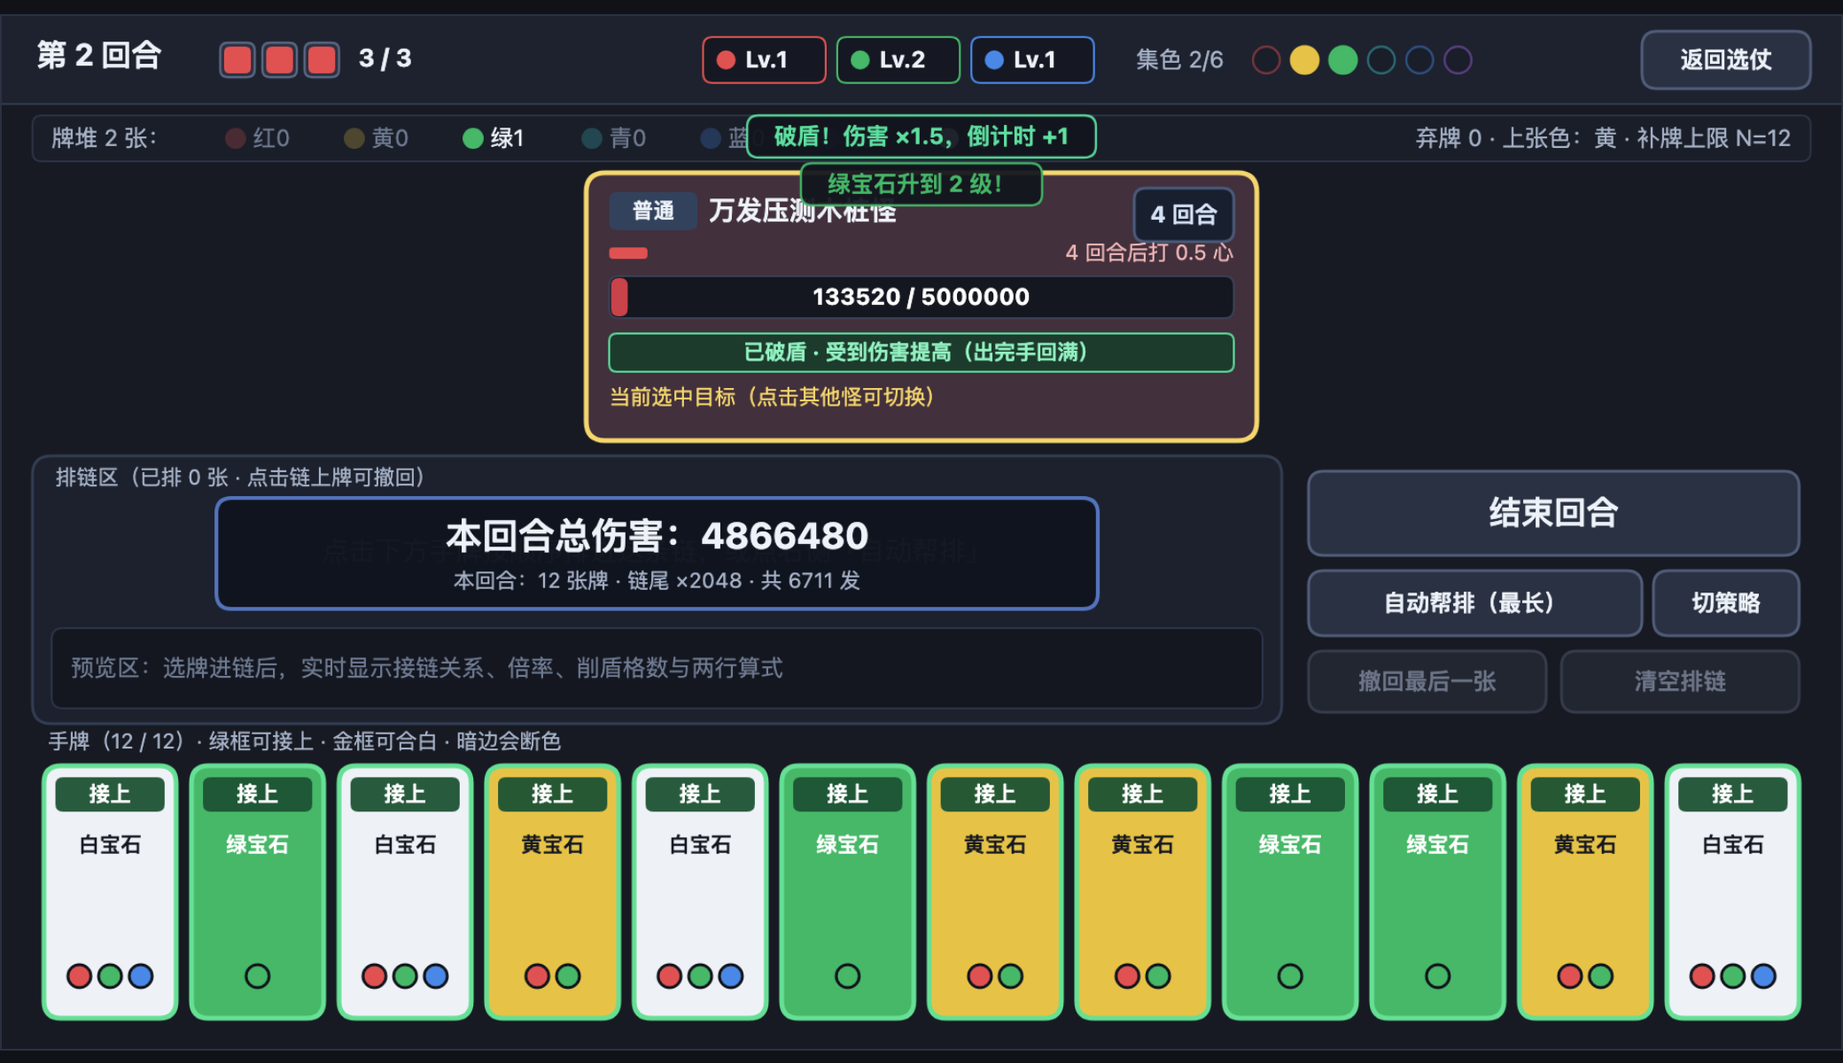
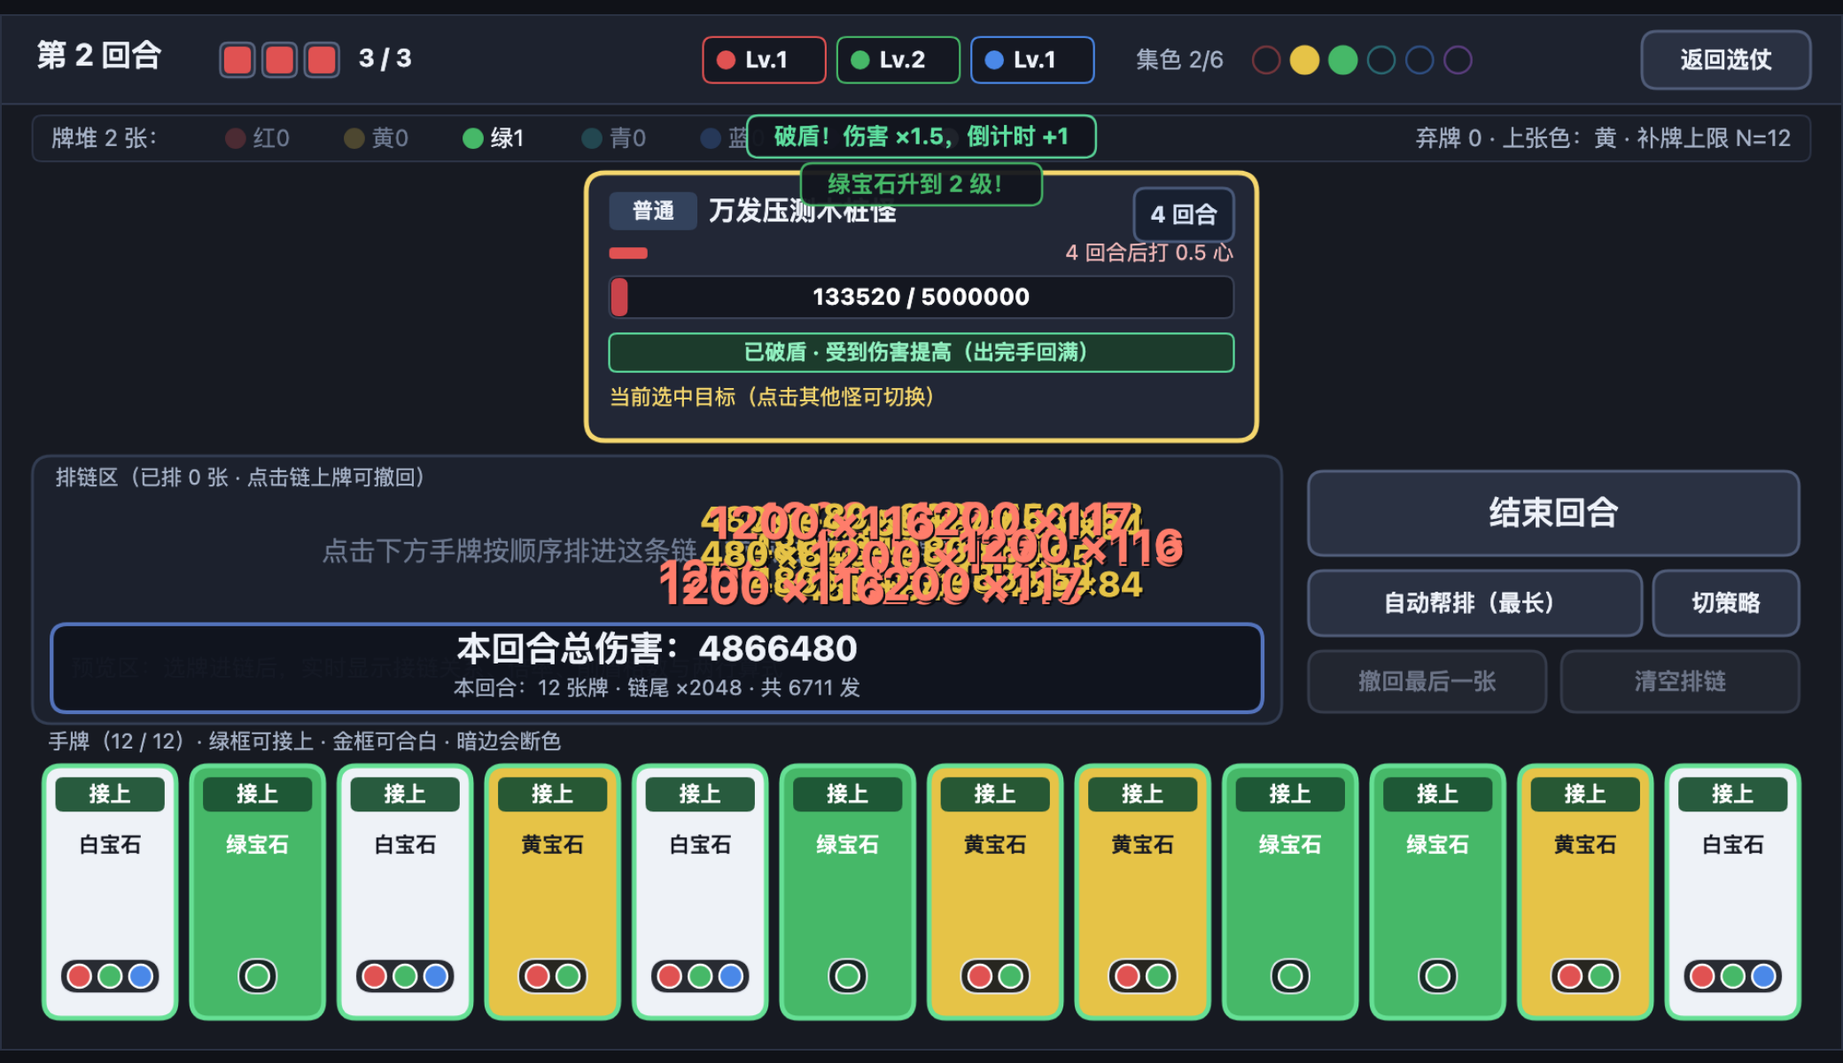
[claude] 第一步修小毛病：飘字不压怪的信息、宝石点加底托、牌名不写换行符

diff --git a/原型/neon/modules/battle-view/view.js b/原型/neon/modules/battle-view/view.js
@@ -39,14 +39,27 @@ function isLightSwatch(colorId) {
 function drawGemDots(renderer, centerX, y, gems, radius = 5, gap = 14) {
   if (!Array.isArray(gems) || gems.length === 0) return;
   const startX = centerX - ((gems.length - 1) * gap) / 2;
+  // 深色底托：不管牌面是什么颜色（包括蓝点画在蓝牌上），宝石点都落在同一块深色底上
+  const padX = radius + 4;
+  renderer.rect({
+    x: startX - padX,
+    y: y - radius - 3,
+    w: (gems.length - 1) * gap + padX * 2,
+    h: radius * 2 + 6,
+    fill: '#12151c',
+    stroke: '#eef2f9',
+    lineWidth: 1,
+    radius: radius + 3,
+    alpha: 0.9,
+  });
   gems.forEach((g, idx) => {
     renderer.circle({
       x: startX + idx * gap,
       y,
       r: radius,
       fill: COLOR_META[g]?.swatch || '#ffffff',
-      stroke: '#12151c',
-      lineWidth: 1.5,
+      stroke: '#ffffff',
+      lineWidth: 1.2,
     });
   });
 }
@@ -110,6 +123,7 @@ export function createBattleView(options = {}) {
   let hoveredMonsterUid = null;
   let hoveredChainUid = null;
 
+  // 飘字的落点：怪卡片正下方那一条（排链面板的上半截），往上飘到卡片底边为止，不压怪的名字和信息
   function computeMonsterAnchors(snap) {
     const anchors = new Map();
     if (!snap || !Array.isArray(snap.monsters)) return anchors;
@@ -119,7 +133,7 @@ export function createBattleView(options = {}) {
     const totalW = count * cardW + (count - 1) * gap;
     const startX = (LOGICAL_W - totalW) / 2;
     snap.monsters.forEach((m, idx) => {
-      anchors.set(m.uid, { x: startX + idx * (cardW + gap) + cardW / 2, y: 148 });
+      anchors.set(m.uid, { x: startX + idx * (cardW + gap) + cardW / 2, y: 292, minY: 248 });
     });
     return anchors;
   }
@@ -996,10 +1010,10 @@ export function createBattleView(options = {}) {
       const sb = state.summaryBanner;
       const alpha = Math.max(0, Math.min(1, sb.life / 0.5));
       renderer.rect({
-        x: 112,
-        y: 252,
-        w: 460,
-        h: 58,
+        x: 26,
+        y: 318,
+        w: 632,
+        h: 46,
         fill: '#10141f',
         stroke: sb.rainbow ? '#ffd559' : '#5778c4',
         lineWidth: 2,
@@ -1010,8 +1024,8 @@ export function createBattleView(options = {}) {
         value: sb.totalDamage,
         prefix: '本回合总伤害：',
         x: 342,
-        y: 263,
-        size: 19,
+        y: 322,
+        size: 18,
         tone: sb.rainbow ? 'accent' : 'normal',
         align: 'center',
         alpha,
@@ -1020,7 +1034,7 @@ export function createBattleView(options = {}) {
         drawText(renderer, {
           text: sb.formulaLines[0],
           x: 342,
-          y: 290,
+          y: 346,
           size: 11,
           color: UI_THEME.textSecondary,
           align: 'center',
@@ -1128,9 +1142,10 @@ export function createBattleView(options = {}) {
     renderMonsters(renderer);
     renderChainAndPreview(renderer);
     renderHand(renderer);
+    ui.render(renderer);
     renderFx(renderer);
     renderOutcomeModal(renderer);
-    ui.render(renderer);
+    if (snapshot.outcome !== null) ui.render(renderer);
     renderHoverTooltip(renderer);
   }
 

diff --git a/原型/neon/tools/shot.js b/原型/neon/tools/shot.js
@@ -55,8 +55,9 @@ const DEFAULT_JOBS = [
     full: false,
     clicks: [
       { x: 750, y: 306 }, // 点「自动帮排」
-      { x: 780, y: 260 }, // 点「打出」看飘字与总伤面板
+      { x: 780, y: 260, frames: 1, waitMs: 650 }, // 点「打出」看飘字与总伤面板
     ],
+    freeze: true,
   },
   {
     name: '实战·看门的 3 条血',
@@ -75,8 +76,9 @@ const DEFAULT_JOBS = [
     full: false,
     clicks: [
       { x: 750, y: 306 }, // 自动帮排 12 张
-      { x: 780, y: 260 }, // 打出上万发
+      { x: 780, y: 260, frames: 1, waitMs: 650 }, // 打出上万发
     ],
+    freeze: true,
   },
   {
     name: 'battle-view 假数据演示页',
@@ -285,7 +287,7 @@ async function waitFrames(cdp, count = 3) {
   });
 }
 
-async function clickLogicalCanvas(cdp, lx, ly) {
+async function clickLogicalCanvas(cdp, lx, ly, settleFrames = 6) {
   const evalRes = await cdp.send('Runtime.evaluate', {
     returnByValue: true,
     expression: `(() => {
@@ -306,7 +308,7 @@ async function clickLogicalCanvas(cdp, lx, ly) {
   await cdp.send('Input.dispatchMouseEvent', { type: 'mousePressed', x: pt.x, y: pt.y, button: 'left', clickCount: 1 });
   await cdp.send('Input.dispatchMouseEvent', { type: 'mouseReleased', x: pt.x, y: pt.y, button: 'left', clickCount: 1 });
   await cdp.send('Input.dispatchMouseEvent', { type: 'mouseMoved', x: 12, y: 12, button: 'none' });
-  await waitFrames(cdp, 6);
+  await waitFrames(cdp, settleFrames);
 }
 
 async function runJob(cdp, origin, job) {
@@ -336,8 +338,15 @@ async function runJob(cdp, origin, job) {
 
     if (Array.isArray(job.clicks)) {
       for (const pt of job.clicks) {
-        await clickLogicalCanvas(cdp, pt.x, pt.y);
+        await clickLogicalCanvas(cdp, pt.x, pt.y, pt.frames ?? 6);
+        if (pt.waitMs) {
+          await cdp.send('Runtime.evaluate', { awaitPromise: true, expression: `new Promise((r) => setTimeout(r, ${Number(pt.waitMs)}))` });
+        }
       }
+    }
+    if (job.freeze) {
+      // 停住主循环再截：飘字只活一秒多，截图本身就要几百毫秒
+      await cdp.send('Runtime.evaluate', { expression: 'window.__CODE00_APP__?.freeze?.()' });
     }
 
     let captureParams = { format: 'png' };

diff --git a/原型/neon/modules/ui/primitives.js b/原型/neon/modules/ui/primitives.js
@@ -32,6 +32,15 @@ export function formatNumber(value, { decimals = 0, prefix = '', suffix = '' } =
 const NO_LINE_START_PUNCT = new Set(['，', '。', '；', '：', '、', '！', '？', '）', '》', '」', '』', ',', '.', ';', ':', '!', '?', ')']);
 
 /**
+ * 断行用的小块：中文一个字一块；连着的字母、数字、符号（如「+50%」「×2」）算一块，不从中间断开。
+ * @param {string} para
+ * @returns {string[]}
+ */
+export function splitWrapTokens(para) {
+  return String(para).match(/[A-Za-z0-9+\-×%.,:/#]+|\s+|[\s\S]/gu) || [];
+}
+
+/**
  * 按最大像素宽度把字符串拆成多行（兼容中文无空格断行、显式换行符与基础避头标点）。
  * @param {object} renderer
  * @param {string} content
@@ -52,18 +61,18 @@ export function wrapText(renderer, content, maxWidth, style = {}) {
       continue;
     }
     let current = '';
-    for (const ch of para) {
-      const candidate = current + ch;
+    for (const token of splitWrapTokens(para)) {
+      const candidate = current + token;
       if (current.length > 0 && renderer.measureText(candidate, style).width > maxWidth) {
         // 避免常见中文标点落在行首
-        if (NO_LINE_START_PUNCT.has(ch) && current.length > 1) {
+        if (NO_LINE_START_PUNCT.has(token) && current.length > 1) {
           const chars = Array.from(current);
           const tail = chars.pop();
-          lines.push(chars.join(''));
-          current = tail + ch;
+          lines.push(chars.join('').trimEnd());
+          current = tail + token;
         } else {
-          lines.push(current);
-          current = ch;
+          lines.push(current.trimEnd());
+          current = token.trimStart();
         }
       } else {
         current = candidate;

diff --git a/原型/neon/modules/content/test/content.test.js b/原型/neon/modules/content/test/content.test.js
@@ -6,6 +6,7 @@ import {
   validateBattleStartPacket,
 } from '../../shared/index.js';
 import {
+  ALL_CARD_DEFS,
   ALL_ENCOUNTERS,
   DECK_LOADOUTS,
   FUNCTION_CARD_LIST,
@@ -40,5 +41,11 @@ test('阶段 1 核心 5 种仗与全部 7 种仗拼出的开战包全部通过 s
     });
     const res = validateBattleStartPacket(packet);
     assert.equal(res.ok, true, `${encounter.id} 开战包校验失败：\n${res.errors.join('\n')}`);
+  }
+});
+
+test('牌的名字里不写换行符：排版交给画面按宽度换行', () => {
+  for (const def of Object.values(ALL_CARD_DEFS)) {
+    assert.doesNotMatch(def.label, /\n/, `${def.defId} 的名字里有换行符`);
   }
 });

diff --git a/原型/neon/modules/battle-view/fx.js b/原型/neon/modules/battle-view/fx.js
@@ -76,6 +76,7 @@ export function createBattleFx() {
             color,
             size,
             isCrit: Boolean(p.isCrit),
+            minY: anchor.minY ?? -Infinity,
             delay: Math.min(0.45, packetIndex * 0.02),
             life: 1.15,
             maxLife: 1.15,
@@ -155,7 +156,7 @@ export function createBattleFx() {
         f.delay -= step;
         continue;
       }
-      f.y += f.vy * step;
+      f.y = Math.max(f.minY ?? -Infinity, f.y + f.vy * step);
       f.life -= step;
       if (f.life <= 0) floaters.splice(i, 1);
     }

diff --git a/原型/neon/modules/ui/test/ui.test.js b/原型/neon/modules/ui/test/ui.test.js
@@ -154,3 +154,10 @@ test('createUiLayer 正确处理按钮命中、悬停、按下、点击与禁用
   assert.equal(offRes.clickedId, null);
   assert.equal(disabledClicked, 0);
 });
+
+test('wrapText 不把「+50%」这类数字记号从中间断开', () => {
+  const { renderer } = makeRecordingRenderer();
+  const lines = wrapText(renderer, '本回合每发 +50%', 60, { size: 14 });
+  assert.ok(lines.length >= 2);
+  assert.ok(lines.some((l) => l.includes('+50%')), `断行结果：${JSON.stringify(lines)}`);
+});

diff --git a/原型/neon/modules/ui/index.js b/原型/neon/modules/ui/index.js
@@ -2,7 +2,7 @@
 // 其他模块和 app/ 只能导入这个文件。
 
 export { UI_THEME } from './theme.js';
-export { formatNumber, wrapText, drawText, drawNumber, drawPanel } from './primitives.js';
+export { formatNumber, wrapText, splitWrapTokens, drawText, drawNumber, drawPanel } from './primitives.js';
 export { hitTestRect, createButton, drawButton } from './button.js';
 export { layoutTooltip, drawTooltip } from './tooltip.js';
 export { createUiLayer } from './manager.js';

diff --git a/原型/neon/app/main.js b/原型/neon/app/main.js
@@ -85,4 +85,7 @@ window.__CODE00_APP__ = Object.freeze({
   getLogicalSize: () => renderer.getSize(),
   getBackend: () => RENDER_BACKEND,
   getLoopStats: () => loop.getStats(),
+  // 截图用：停住主循环，让飘字定在画面上（再调 unfreeze 接着走）
+  freeze: () => { loop.stop(); sceneManager.render(renderer); },
+  unfreeze: () => loop.start(),
 });

diff --git a/原型/neon/modules/content/cards/cards.js b/原型/neon/modules/content/cards/cards.js
@@ -65,7 +65,7 @@ export const FUNCTION_CARD_DEFS = Object.freeze({
     color: 'colorless',
     gems: Object.freeze([]),
     drawAfterPlay: 1,
-    label: '本回合\n每发 +50%',
+    label: '本回合每发 +50%',
     description: '马上用：这回合每发伤害 +50%，用完补摸 1 张',
     effects: Object.freeze([
       Object.freeze({

diff --git a/进度.md b/进度.md
@@ -3,27 +3,19 @@
 ## 现在
 （每次整段重写。换一个人只读这一段就能接着干。）
 
-**做到哪**：设计稿第 3 版整份用户点过头了。**原型：neon 做完了阶段 0 和阶段 1 前半段**（`原型/neon/`，提交 `7f93fa4`、`f274f4b`），用户检查后说「纯粹是逻辑，页面布局一点都没有」，决定**剩下的交给 claude 接着做**。
-- 写设计稿的 claude 检查了 neon 的东西：`原型/检查-neon-阶段0到1前半.md`。
-  - 能接着做：33 项单测全过，零依赖，解耦守卫、假玩家模拟、截图工具都有；规则抽查跟第 3 版一致。
-  - 要改：画面是调试面板，不像游戏；布局坐标散在 `view.js` 里写死；选仗台和开关当成了入口；飘字压字、蓝点看不见、名字里写换行符。
-  - 等用户打过再问：「按破盾排」跟「按最长的链排」几乎没差别，看门的掉心太少，都达不到 10.4 的合格线。
-- 接手提示词：`原型/提示词-接手neon.md`。用户开一个新窗口，**同时做布局和阶段 1 后半段**，都交给 claude，就在 `原型/neon/` 里接着做，提交写 `[claude]`：
-  - 修小毛病；
-  - 画面框架、战斗画面 2~3 个布局、4 个加成和 2 个队友的候选，一起拿给用户挑；
-  - 照挑的做：布局定了写进 `设计/界面.md`，选仗台和开关收进调试面板；加成、队友做成逻辑，按新布局显示；
-  - 跑假玩家，再给用户打。
-- 美术参考方案 `美术/教程-像素堆叠AI制作方案/` 跟设计稿无关；里面有没提交的改动，不是写设计稿的人改的，别动。
+**做到哪**：设计稿第 3 版整份用户点过头了。原型：neon 做完阶段 0 和阶段 1 前半段（`原型/neon/`），**claude 接手**，就在 `原型/neon/` 里同时做布局和阶段 1 后半段（提示词 `原型/提示词-接手neon.md`，提交写 `[claude]`）。
+- 第一步修小毛病**做完了**：飘字不压怪的名字和信息、蓝点在蓝牌上看得清、功能牌名字不写换行符。细节在 `原型/neon/进度.md`。
+- 正在做第二步：把 A 画面框架、B 战斗布局 2~3 个（色块截图）、C 4 个加成和 2 个队友的候选，一起拿给用户挑。
 
 **下一步**：
-1. 新窗口照 `原型/提示词-接手neon.md` 做。
-2. 做完以后：写设计稿的人在 `设计/设计.md` 第 10 节加一句指向 `设计/界面.md`；问用户要不要调盾的格数、破盾推几格（检查记录第 5、6 条）。
+1. 用户挑 A、B、C；照挑的重做 `battle-view`、写 `设计/界面.md`、做加成和队友（第三步）。
+2. 跑假玩家，再给用户打（第四步）。
+3. 都做完以后：写设计稿的人在 `设计/设计.md` 第 10 节加一句指向 `设计/界面.md`；问用户要不要调盾的格数、破盾推几格（检查记录第 5、6 条）。
 
 **还剩多少设计没定**（每次回复都要报）：
 - 开工前要确认的：**没有了**。
-- 现在要跟用户定的：游戏的画面框架和战斗布局（新窗口出 2~3 个让用户挑）。
+- 现在要跟用户定的：游戏的画面框架和战斗布局；阶段 1 后半段的 4 个加成、2 个队友（这一步一起拿给用户挑）。
 - 开工以后边做边跟用户定的：
-  - 阶段 1 后半段的 4 个加成、2 个队友；
   - 12 个加成的草表，「长链」那条要加平时也能用上的；3~4 个小事件（阶段 2）；
   - 每发疼在一趟里怎么喂（阶段 2）；
   - 原型的 4 个队友，加上它们的探索小本事（阶段 3）。
@@ -33,7 +25,7 @@
 - 怪、技能、世界观不能自己定，只出候选，让用户拍板。
 - 不取名；用词避开灯、烬、影、夜、魂、光这类字，连机制的叫法也算。
 - 别丢用户原型 `5494227` 里的规则。
-- 每步更新进度、本地提交，不推远端。
+- 每步更新进度、本地提交，不推远端；只提交自己改的文件，`美术/` 里有用户别的改动，别碰。
 - 记忆文件在这台电脑的 `~/.claude/` 里，换账号、换模型不一定读得到，所以规矩都写进了 `CLAUDE.md` / `AGENTS.md`。
 
 ## 记录
@@ -110,3 +102,4 @@
 - 2026-11-23　魔物蝙蝠像素堆叠 v3 骨骼化与翼手飞行改造：重构 `美术/教程-像素堆叠AI制作方案/bat/index.html`（由 8 帧定帧升级为 14 个模块化体素部件 + 翼根严格锁枢轴 0 脱节 + 下拍升力滞后悬停 + 独立雷达大耳与尖啸双态头 + `actorBuf` 整体 1px 外轮廓合成；完整保留 4 色系零重建模换色与 4 技能含小蝠群，新增「低空扑翼悬停 + 拍翼滑翔俯冲巡航 (S)」双生态与高度联动地面投影；经 Node 自动化校验与多视角截图复查通过：37 色 0 重色 0 遮挡、建模 21.8ms、翼根枢轴误差 0.0000 格）；更新 `进度.md`。
 - 2026-11-23　用户要两个窗口同时做（布局、阶段 1 后半段）：`原型/提示词-接手neon.md` 拆成 `原型/提示词-布局.md`、`原型/提示词-阶段1后半.md`，写清两边改哪些文件、进度各写各的小节、只提交自己的路径；`原型/neon/进度.md` 和根目录 `进度.md` 的「现在」分出两个小节；`原型/README.md`、检查记录、`CLAUDE.md`、`AGENTS.md` 跟着改。
 - 2026-11-23　用户说不分两个窗口，布局和阶段 1 后半段一个窗口一起做：两份提示词合回 `原型/提示词-接手neon.md`；进度改回一节；`原型/README.md`、检查记录、`CLAUDE.md`、`AGENTS.md` 跟着改。
+- 2026-11-23　[claude] 接手 neon 的原型，第一步修小毛病：飘字挪到怪卡片下面、宝石点加深色底托、功能牌名字去掉换行符、截图工具能截到飘字；改的都在 `原型/neon/`，单测 35 项全过。

diff --git a/原型/neon/进度.md b/原型/neon/进度.md
@@ -2,20 +2,20 @@
 
 ## 现在
 
-**做到哪**：**阶段 1 前半段（做出一仗，完整可试玩）已完成**。
-- 已完成 `modules/content/`：29 张固定宝石牌、8 种原型功能牌（6 种无色马上用且补摸 1 张、2 种带色/变色排链）、阶段 1 核心 5 种仗（双色盾、集色减伤、倒计时短、一群 1 厚 2 薄、3 条血换特性看门的）与 5.8 另 2 种拓展仗，全部通过 `validateBattleStartPacket` 校验。
-- 已完成 `modules/battle-rules/`：完整实现第 3 版全部战斗规则（色环接链、断色倍率不掉、合白群攻不削盾、记两边不立即触发彩虹、破盾那张吃 0.75 下张吃 1.5、打空血条不算破盾不削新条盾、溢出吃新条特性、链内倒计时拨到 0 不打断、挡留存与消耗顺序、满 12 张进弃牌堆、每动作独立小函数、自动帮排、全部手感开关），零 DOM 依赖。
-- 已完成 `tools/sim.js` 并跑完 150 仗/组模拟：
-  - 全部 8 种原型功能牌塞 3 张后均无负收益（零陷阱牌）；
-  - 普通怪均回合 2.25~2.89 回合，看门的（纯 29 宝石）均回合 6.20、均掉 0.50 心；
-  - 12 张牌大链 11282 发仅耗时 0.10ms；
-  - 同步暴露了基础规则下「先破盾排 vs 最长链排」在看门的处差值偏小（0.02 心 / 0.05 回合），待用户上手试打后决定是否调整盾格或推格。
-- 已完成 `modules/battle-view/` 与 `app/` 组装：打开即进入阶段 1 试打台，可选 5+2 种仗、切换牌组与 8 项规则开关、一键万发压测，进入实战可直接点牌排链、看实时两行算式预览、自动帮排、打出飘纯数字与结算重开。
-- 全部 33 项单测（含解耦边界守卫与零禁字扫描）通过，10 张自动截图无报错且逐张人工审图修完细节。
+**做到哪**：阶段 1 前半段 neon 做完了；**claude 接手**（2026-11-23），同时做布局和阶段 1 后半段（提示词 `原型/提示词-接手neon.md`）。
+- 第一步修小毛病，做完了：
+  - 飘的伤害数字挪到怪卡片下面那一条，往上飘到卡片底边就停，不压怪的名字和信息；
+  - 宝石点画在一块深色底托上，带白边，蓝点在蓝牌上也看得清；
+  - 功能牌名字去掉换行符（`本回合每发 +50%`），断行交给画面：`ui` 的 `wrapText` 改成按「中文一字一块、+50% 这类记号一整块」断行；
+  - 截图工具：点击后可以等几百毫秒、停住主循环再截（`freeze`），飘字才截得到。
+- 顺手发现：一条链打出几十包以上时，`fx` 只留最后 36 包，而且都带 0.45 秒延迟，打出去以后先空一下再一起冒出来。重做布局时一起改。
 
-**接下来**（2026-11-23，写设计稿的 claude 加的）：用户把剩下的交给 claude，一个窗口同时做布局和阶段 1 后半段，提示词是 `原型/提示词-接手neon.md`。
+**下一步**：第二步，把 A 画面框架、B 战斗布局 2~3 个、C 加成和队友候选一起拿给用户挑。
+
+**接手时注意**：只提交自己改的文件，不用 `git add -A`（`美术/` 有用户别的改动）；提交写 `[claude]`；`npm test` 全过。
 
 ## 记录
 
 - 2026-11-23　完成阶段 0 搭架子：新增启动脚本与本地服务、`modules/shared/`、`modules/render/` 及 `blocks/`、`modules/ui/`、`app/` 空壳入口、`tools/`（服务/测试/边界守卫/无头截图）、三份文档与 6 张验收截图；22 项单测全部通过。
 - 2026-11-23　完成阶段 1 前半段：新增 `modules/content/`、`modules/battle-rules/`、`modules/battle-view/`、`tools/sim.js`，升级 `app/` 为试打选仗台（5+2 种仗、8 项可切开关、万发压测）与实战组装场景，同步扩展解耦守卫与 10 张自动截图；33 项单测全部通过，假玩家模拟完成。
+- 2026-11-23　[claude] 接手第一步修小毛病：飘字挪到怪卡片下面、宝石点加深色底托、功能牌名字去掉换行符（`wrapText` 不拆 +50% 这类记号）、截图工具能等几百毫秒并停住主循环再截；单测 35 项全过。改了 `modules/battle-view/view.js`、`fx.js`，`modules/ui/primitives.js`、`index.js`、测试，`modules/content/cards/cards.js`、测试，`app/main.js`，`tools/shot.js`。
